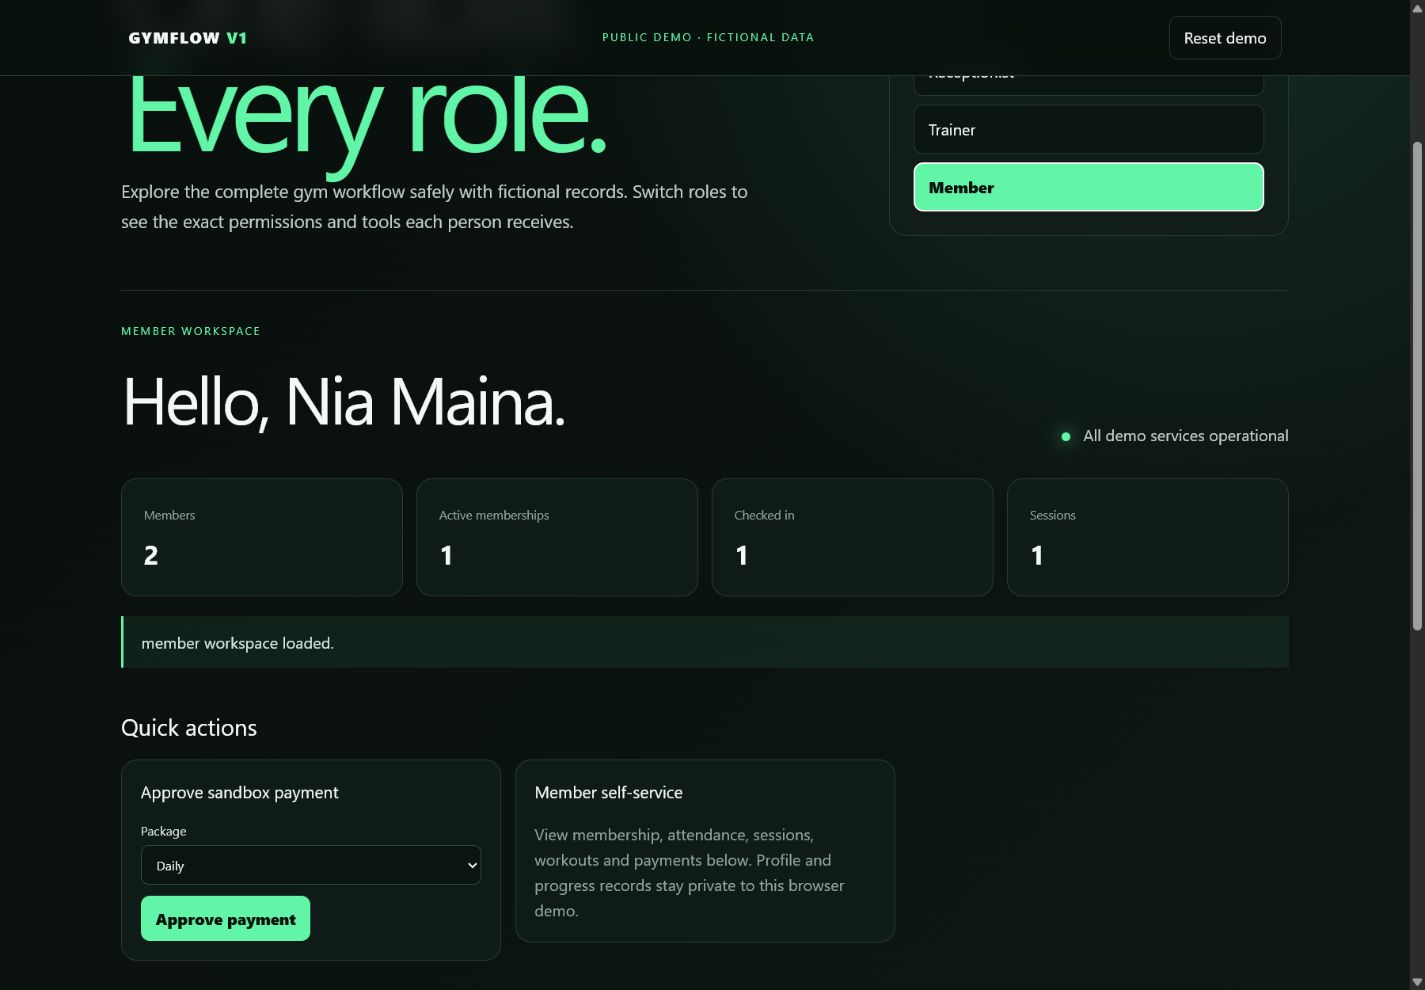
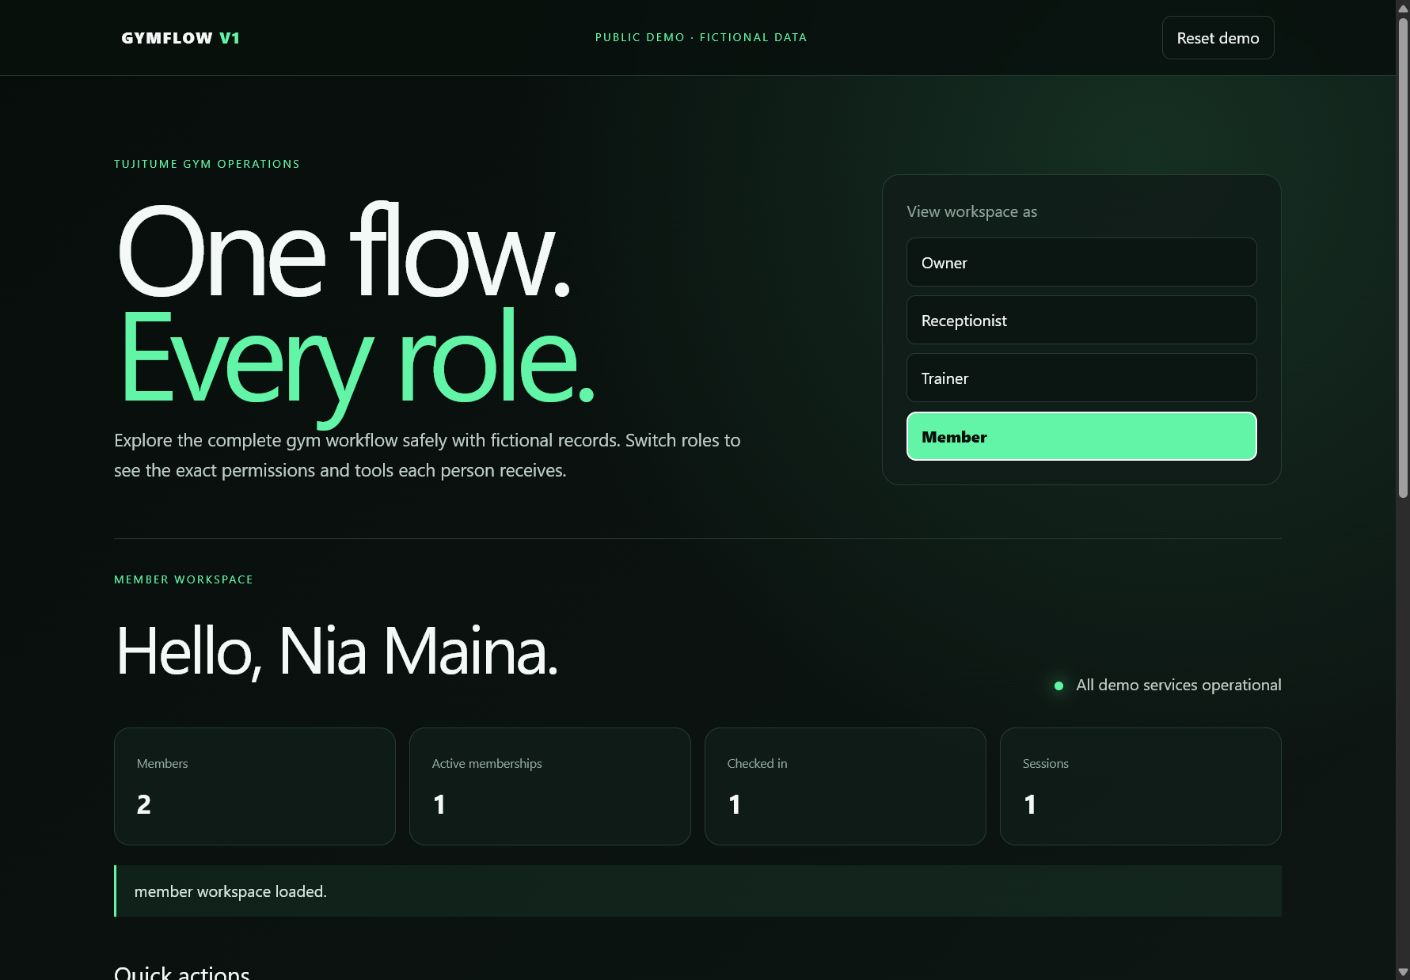
Refresh GymFlow live showcase

diff --git a/index.html b/index.html
@@ -105,11 +105,11 @@
       <div class="work-heading reveal"><h2>Projects with <em>purpose.</em></h2><p>A growing collection of systems designed around real people and operational needs.</p></div>
       <article class="project featured reveal">
         <div class="project-info">
-          <p class="project-type">Full-stack system + public demo · 2026</p><h3>GymFlow</h3>
-          <p>A gym operations platform designed for owners, receptionists, trainers and members. The live showcase is a safe demo edition with fictional data and browser-local storage; the complete Python and SQLite system remains the authoritative project.</p>
+          <p class="project-type">Live public demo · Actively maintained · 2026</p><h3>GymFlow</h3>
+          <p>A gym operations platform designed for owners, receptionists, trainers and members. Its live React and TypeScript showcase uses fictional data stored only in the visitor's browser, while the complete V1 is backed by a modular Python API and SQL persistence.</p>
           <div class="demo-note"><span>Live</span><p><b>Public demo edition</b> Fictional data · No real payments · Data stays in your browser</p></div>
           <ul><li>Role-aware owner, receptionist, trainer and member workflows</li><li>Member registration, memberships, payments and attendance</li><li>Trainer schedules and workout assignments</li><li>Owner expenses and operational summaries</li></ul>
-          <div class="project-stack"><span>Python</span><span>JavaScript</span><span>SQLite</span><span>PostgreSQL-ready</span><span>JSON API</span></div>
+          <div class="project-stack"><span>React</span><span>TypeScript</span><span>Browser-local demo</span><span>Python API</span><span>SQLite</span><span>PostgreSQL-ready</span></div>
           <div class="project-actions">
             <a class="button primary" href="https://kuriaaaa.github.io/gymflow-v1-demo/" target="_blank" rel="noopener noreferrer">Open live demo <span>↗</span></a>
             <a class="button project-source" href="https://github.com/Kuriaaaa/gymflow-v1-demo" target="_blank" rel="noopener noreferrer">View source code <span>↗</span></a>
@@ -117,13 +117,13 @@
           <div class="interface-showcase">
             <div class="showcase-heading"><div><p class="project-type">GymFlow V1 interfaces</p><h4>Four focused workspaces. One connected system.</h4></div><small>Fictional demonstration data</small></div>
             <div class="role-tabs" role="group" aria-label="Choose a GymFlow role screenshot">
-              <button class="active" type="button" data-role-image="assets/gymflow-gallery/member-workspace.png" data-role-label="Member workspace: personal membership, attendance, sessions, workouts, payments and progress." aria-pressed="true">Members</button>
-              <button type="button" data-role-image="assets/gymflow-gallery/trainer-workspace.png" data-role-label="Trainer workspace: assigned members, schedules and workout-plan tools without financial access." aria-pressed="false">Trainers</button>
-              <button type="button" data-role-image="assets/gymflow-gallery/receptionist-workspace.png" data-role-label="Receptionist workspace: member registration, memberships, sandbox payments, attendance and session scheduling." aria-pressed="false">Receptionist</button>
-              <button type="button" data-role-image="assets/gymflow-gallery/owner-workspace.png" data-role-label="Owner workspace: revenue metrics, member registration, memberships, payments, attendance, scheduling, workouts and expenses." aria-pressed="false">Owner</button>
+              <button class="active" type="button" data-role-image="assets/gymflow-gallery/member-workspace.png?v=20260804" data-role-label="Member workspace: personal membership, attendance, sessions, workouts, payments and progress." aria-pressed="true">Members</button>
+              <button type="button" data-role-image="assets/gymflow-gallery/trainer-workspace.png?v=20260804" data-role-label="Trainer workspace: assigned members, schedules and workout-plan tools without financial access." aria-pressed="false">Trainers</button>
+              <button type="button" data-role-image="assets/gymflow-gallery/receptionist-workspace.png?v=20260804" data-role-label="Receptionist workspace: member registration, memberships, sandbox payments, attendance and session scheduling." aria-pressed="false">Receptionist</button>
+              <button type="button" data-role-image="assets/gymflow-gallery/owner-workspace.png?v=20260804" data-role-label="Owner workspace: revenue metrics, member registration, memberships, payments, attendance, scheduling, workouts and expenses." aria-pressed="false">Owner</button>
             </div>
-            <a id="role-preview-link" class="role-preview" href="assets/gymflow-gallery/member-workspace.png" target="_blank" rel="noopener noreferrer" aria-label="Open full member workspace screenshot">
-              <img id="role-preview-image" src="assets/gymflow-gallery/member-workspace.png" alt="GymFlow member workspace demonstration" width="1440" height="1000" loading="lazy">
+            <a id="role-preview-link" class="role-preview" href="assets/gymflow-gallery/member-workspace.png?v=20260804" target="_blank" rel="noopener noreferrer" aria-label="Open full member workspace screenshot">
+              <img id="role-preview-image" src="assets/gymflow-gallery/member-workspace.png?v=20260804" alt="GymFlow member workspace demonstration" width="1425" height="990" loading="lazy">
             </a>
             <p id="role-preview-caption">Member workspace: personal membership, attendance, sessions, workouts, payments and progress.</p>
           </div>
@@ -133,9 +133,9 @@
               <div><dt>Problem</dt><dd>Gym operations are often split across paper records and disconnected tools, making memberships, attendance, schedules and payments difficult to coordinate.</dd></div>
               <div><dt>Solution</dt><dd>A single role-aware workspace for owners, receptionists, trainers and members, with each role limited to the information and actions it needs.</dd></div>
               <div><dt>My role</dt><dd>Designed and developed the application structure, interfaces, API workflows, database migrations, access rules, tests and project documentation.</dd></div>
-              <div><dt>Architecture</dt><dd>Static JavaScript frontend, modular Python JSON API, ordered SQL migrations, SQLite development storage and PostgreSQL production support.</dd></div>
+              <div><dt>Architecture</dt><dd>React and TypeScript public showcase with browser-local fictional data; modular Python JSON API, ordered SQL migrations, SQLite development storage and PostgreSQL production support in the complete V1.</dd></div>
               <div><dt>Challenge</dt><dd>Protecting role boundaries and membership integrity while supporting renewals, attendance, schedules, reporting and safe payment simulations.</dd></div>
-              <div><dt>Result</dt><dd>A documented end-to-end V1 with automated tests, backup and recovery tooling, security controls and a public browser-safe demonstration.</dd></div>
+              <div><dt>Result</dt><dd>A live, actively maintained four-role showcase backed by a documented end-to-end V1 with automated tests, recovery tooling and access controls.</dd></div>
             </dl>
           </div>
           <div class="project-documents">
